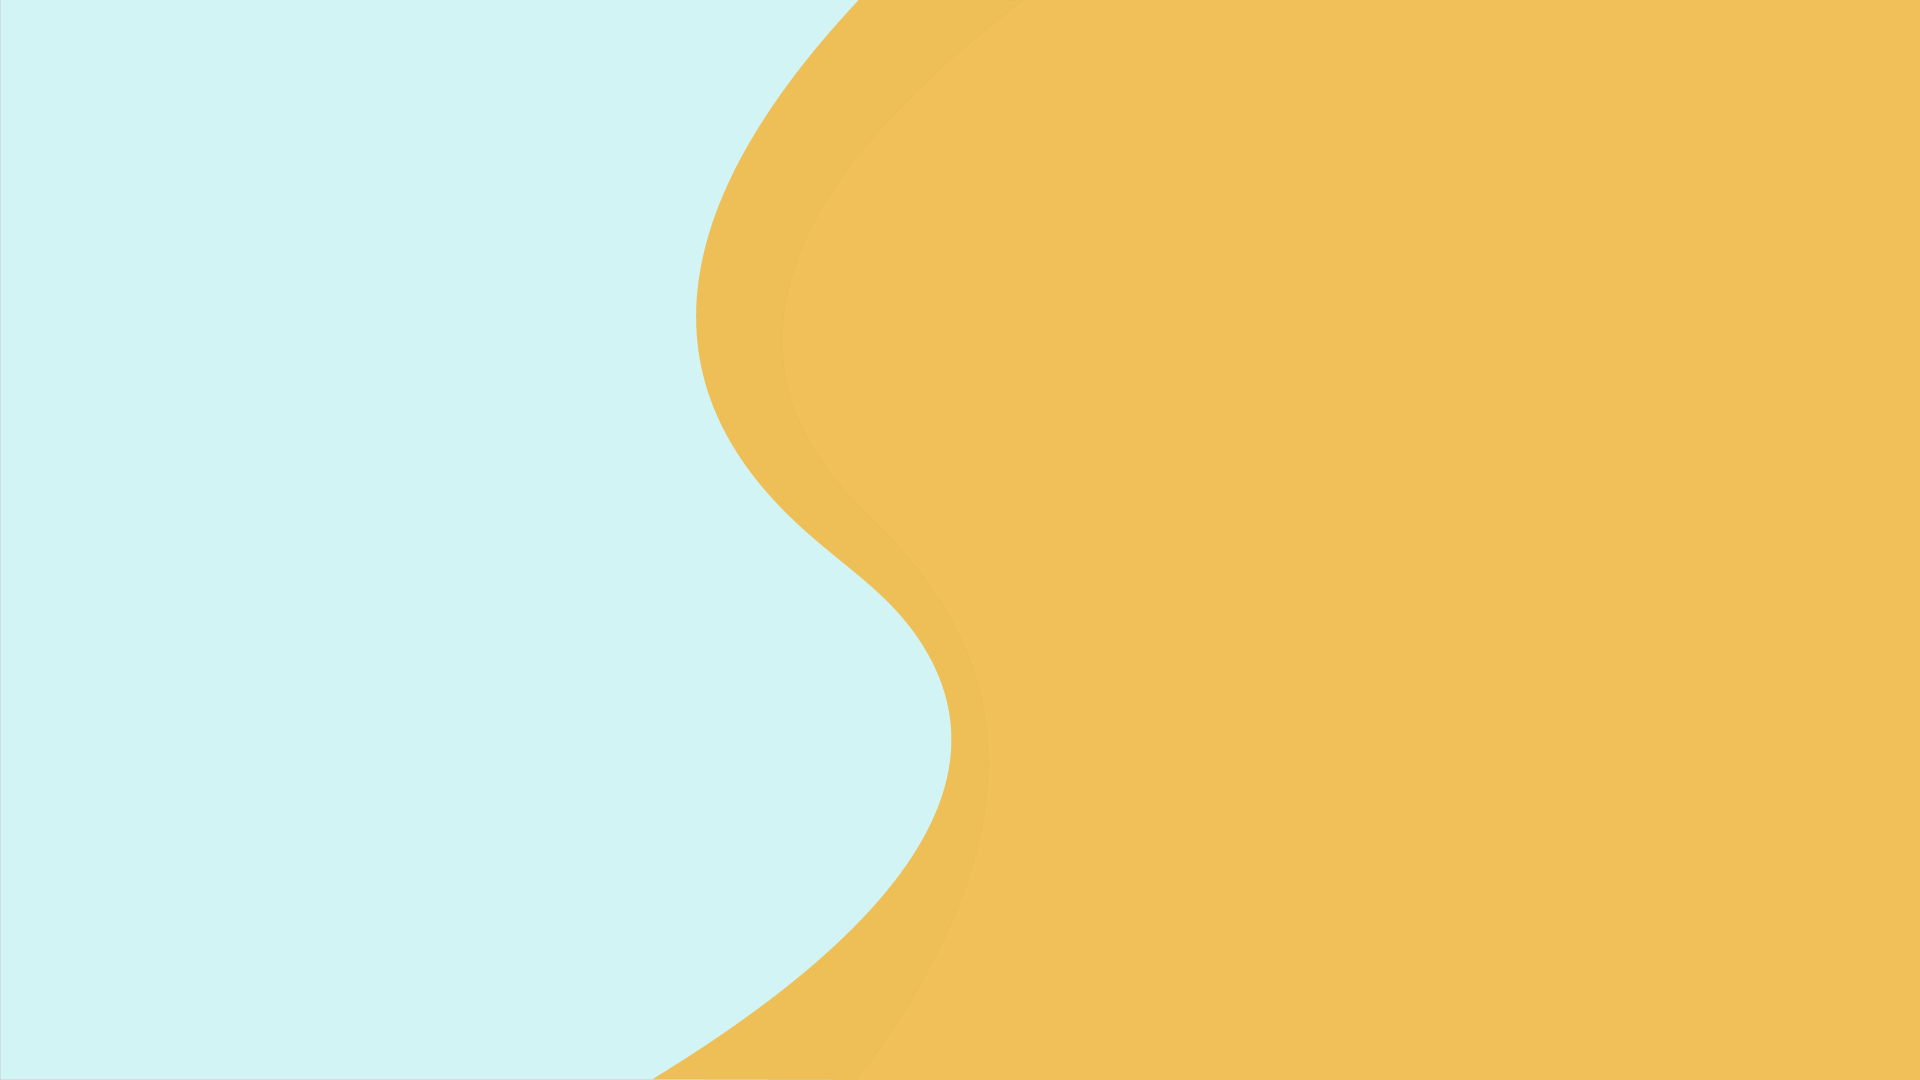
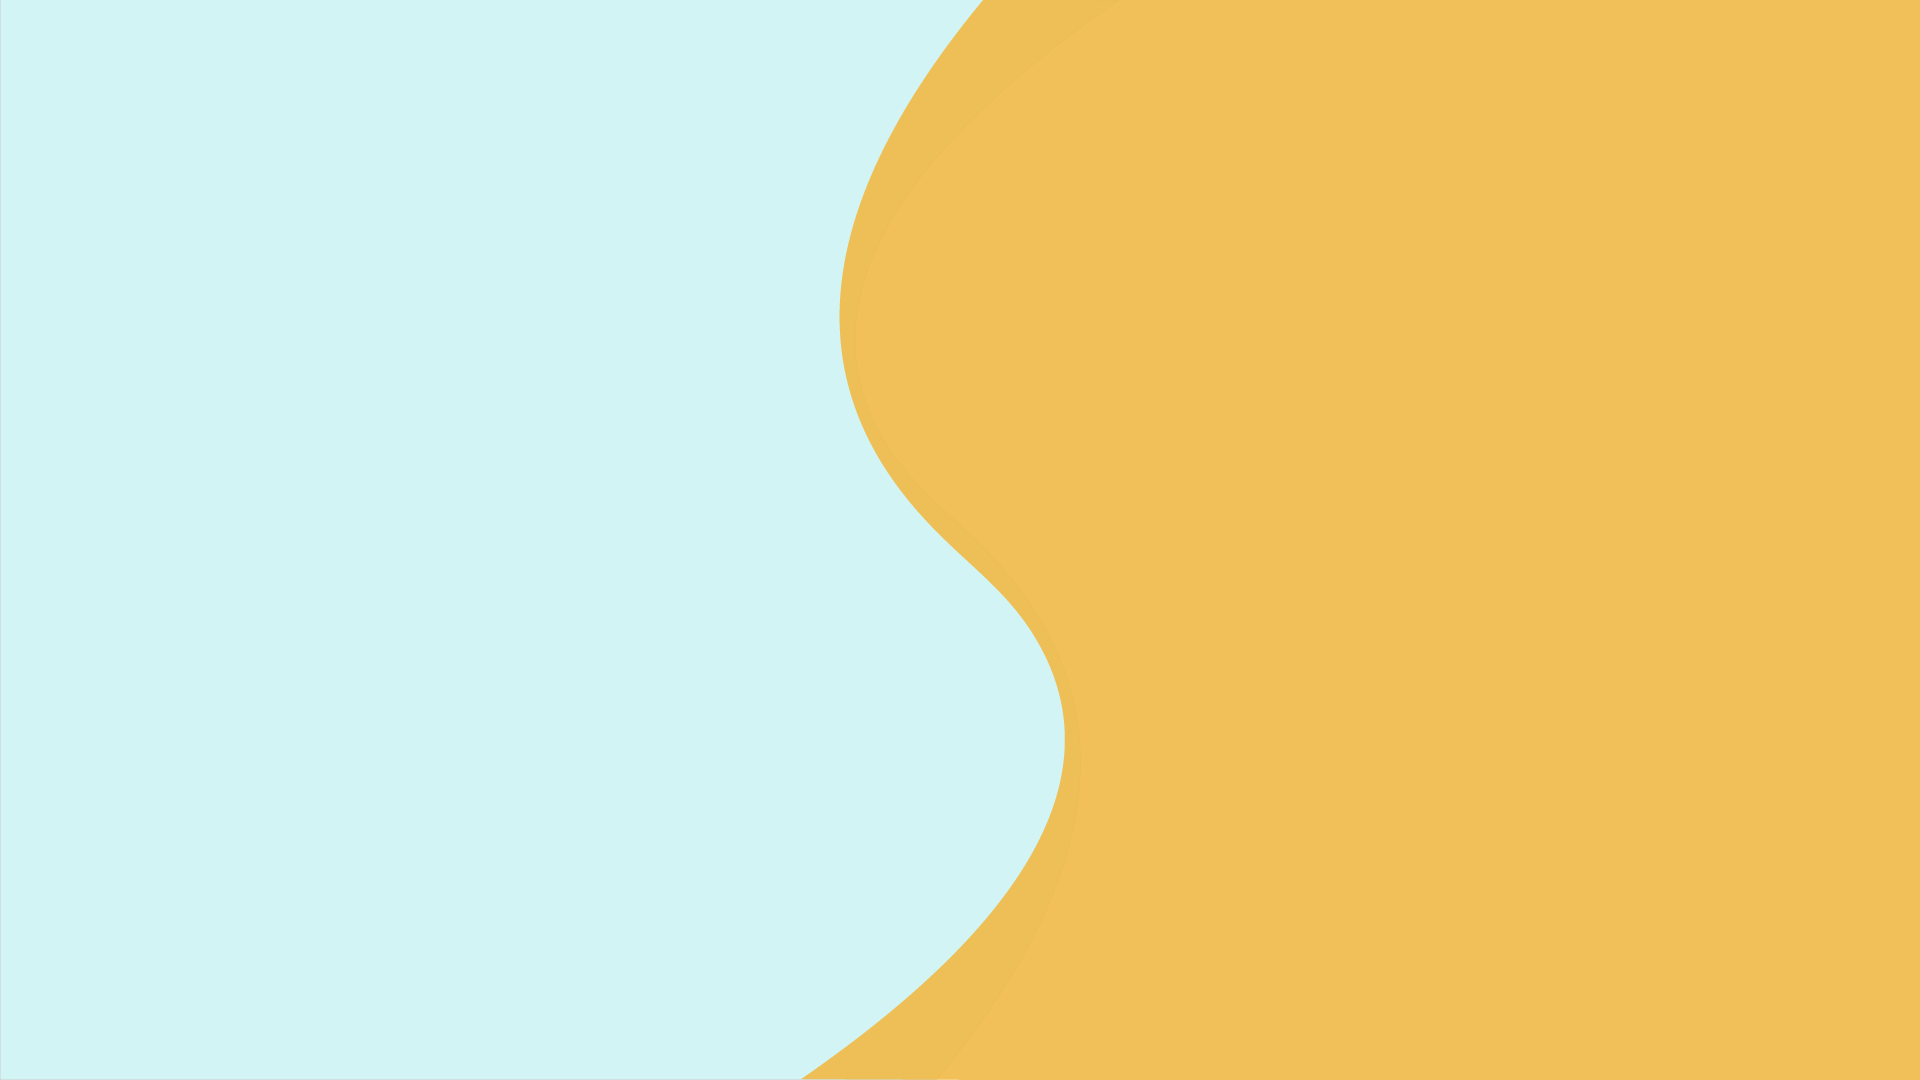
ajouter page de connexion et button style et link

Changed region(s): [[0.3438, 0.0, 0.5625, 1.0]]

diff --git a/view/connexion.html b/view/connexion.html
@@ -3,7 +3,7 @@
 <head>
     <meta charset="UTF-8">
     <meta name="viewport" content="width=device-width, initial-scale=1.0">
-    <title>Document</title>
+    <title>test</title>
     <link href="https://cdn.jsdelivr.net/npm/bootstrap@5.3.2/dist/css/bootstrap.min.css" rel="stylesheet" integrity="sha384-T3c6CoIi6uLrA9TneNEoa7RxnatzjcDSCmG1MXxSR1GAsXEV/Dwwykc2MPK8M2HN" crossorigin="anonymous">
     <link rel="stylesheet" href="https://cdnjs.cloudflare.com/ajax/libs/font-awesome/6.4.2/css/all.min.css" integrity="sha512-z3gLpd7yknf1YoNbCzqRKc4qyor8gaKU1qmn+CShxbuBusANI9QpRohGBreCFkKxLhei6S9CQXFEbbKuqLg0DA==" crossorigin="anonymous" referrerpolicy="no-referrer" />
     <link rel="stylesheet" href="https://cdn.jsdelivr.net/npm/bootstrap-icons@1.11.1/font/bootstrap-icons.css">
@@ -11,10 +11,39 @@
 </head>
 <body>
     <header>
-
+        
     </header>
-    <main>
-
+    <main class="container-fluid d-flex d-flex-column connexion">
+        <div class="container ">
+                <div class="row gx-5 d-flex align-items-center align-content-center ">
+                    <div class="col-md-6 col-1-connexion float-center">
+                        <img class="mx-auto img-fluid image-personne" src="../public/img/Img_page_de_connexion/personne.png" alt="">
+                        <p>Votre confidentialité et votre sécurité sont nos principales priorités !<br />
+                        Consultez notre <a class="link" href=""> politique et nos informations de confidentialité </a><br/>
+                        Besoin d’aide ? <a class="link" href=""> contactez-nous</a><br />
+                    </div>
+                    <div class="col-md-6 col-2-connexion">
+                        <div class="form-connexion p-5 ">
+                            <form>
+                                <h3 class="fw-bolder">Bienvenue !</h3>
+                                <p>Connectez-vous ou <a class="link" href=""> créez un compte</a></p>
+                                <div class="form-group mt-3">
+                                  <label for="adresseMail">Adresse mail</label>
+                                  <input type="text" class="form-control" id="adresseMail" placeholder="mattsmith@mail.com">
+                                </div>
+                                <div class="form-group mt-3">
+                                  <label for="motPass">Mot de passe</label>
+                                  <input type="password" class="form-control" id="motPass" placeholder="Votre mot de pass">
+                                </div>
+                                <div class="mt-4">
+                                    <button type="submit " class="btn button-primary">Connecter</button>
+                                </div>
+                            </form>
+                            <p class="pt-3"><a class="link" href="">Mot de passe oublié</a></p>
+                        </div>
+                    </div>
+                </div>
+        </div>
     </main>
     <footer>
 

diff --git a/public/sass/main.css b/public/sass/main.css
@@ -1,6 +1,49 @@
 @import url("https://fonts.googleapis.com/css2?family=Montserrat:ital,wght@0,200;0,300;0,400;0,500;0,600;1,200;1,300;1,400;1,500;1,600&family=Pacifico&display=swap");
 @import url("https://fonts.googleapis.com/css2?family=Pacifico&family=Voces&display=swap");
 @import url("https://fonts.googleapis.com/css2?family=Nunito+Sans:ital,opsz,wght@0,6..12,200;0,6..12,300;0,6..12,400;0,6..12,500;0,6..12,600;1,6..12,200;1,6..12,300;1,6..12,400;1,6..12,500;1,6..12,600&family=Pacifico&display=swap");
+.link {
+  color: #1D838A;
+  font-weight: 600;
+}
+
+.button-primary {
+  width: 100%;
+  color: #ffffff;
+  background-color: #1D838A;
+  justify-content: center;
+  padding: 10px;
+  border-radius: 5px;
+  border: solid 2px #1D838A;
+  align-items: center;
+}
+
+.button-primary:hover {
+  width: 100%;
+  background-color: #fff;
+  color: #1D838A;
+  font-weight: 600;
+  border: solid 2px #1D838A;
+}
+
+.button-secondary {
+  width: 100%;
+  color: #ffffff;
+  background-color: #E65A14;
+  justify-content: center;
+  padding: 10px;
+  border-radius: 5px;
+  border: solid 2px #E65A14;
+  align-items: center;
+}
+
+.button-secondary:hover {
+  width: 100%;
+  background-color: #fff;
+  color: #E65A14;
+  font-weight: 600;
+  border: solid 2px #E65A14;
+}
+
 .na {
   height: 8vh;
   background-color: #ffffff;
@@ -69,6 +112,64 @@ p {
   font-size: 1rem;
 }
 
+.connexion {
+  padding-top: 100px;
+  padding-bottom: 50px;
+  background-image: url("../img/Img_page_de_connexion/background_img.png");
+  background-size: initial;
+}
+
+.form-connexion {
+  border: dashed 2px rgb(138, 138, 138);
+  background-color: rgb(255, 255, 255);
+  border-radius: 15px;
+  box-shadow: 2px 3px 3px 0px rgba(248, 248, 248, 0.877), 0px 3px 6px 0px rgba(255, 255, 255, 0.724);
+}
+
+.form {
+  width: 100%;
+}
+
+.col-1-connexion {
+  flex: 1;
+  order: 1;
+}
+
+.col-2-connexion {
+  flex: 1;
+  order: 2;
+}
+
+@media screen and (max-width: 1025px) {
+  .connexion {
+    background-image: url("../img/Img_page_de_connexion/background_img.png");
+    background-size: initial;
+  }
+}
+@media screen and (min-width: 1025px) {
+  .col-1-connexion {
+    padding-right: 12%;
+    padding-top: 5%;
+    padding-bottom: 5%;
+  }
+  .col-2-connexion {
+    padding-left: 12%;
+    padding-top: 5%;
+    padding-bottom: 5%;
+  }
+}
+@media (max-width: 600px) {
+  .col-1-connexion {
+    order: 2;
+    margin-top: 50px;
+  }
+  .col-2-connexion {
+    order: 1;
+  }
+  .form-connexion {
+    padding: 10px;
+  }
+}
 #figure-lola {
   width: 200px;
   height: 200px;

diff --git a/public/sass/pages/_connexion.scss b/public/sass/pages/_connexion.scss
@@ -1,0 +1,59 @@
+.connexion{
+    padding-top: 100px;
+    padding-bottom: 50px;
+    background-image: url("../img/Img_page_de_connexion/background_img.png");
+    background-size: initial;
+    }      
+
+.form-connexion{
+    border: dashed 2px rgb(138, 138, 138);
+    background-color: rgb(255, 255, 255);
+    border-radius: 15px;
+    box-shadow: 2px 3px 3px 0px rgba(248, 248, 248, 0.877), 0px 3px 6px 0px rgba(255, 255, 255, 0.724);
+    }
+
+.form {
+    width: 100%;
+  }
+
+.col-1-connexion{
+    flex: 1;
+    order: 1;
+}
+.col-2-connexion{
+    flex: 1;
+    order: 2;
+}
+@media screen and (max-width: 1025px) {
+    .connexion{
+        background-image: url("../img/Img_page_de_connexion/background_img.png");
+        background-size: initial;
+    }
+}
+  @media screen and (min-width: 1025px) {
+    .col-1-connexion{
+        padding-right: 12%;
+        padding-top: 5%;
+        padding-bottom: 5%;
+    }
+    .col-2-connexion{
+        padding-left: 12%;
+        padding-top: 5%;
+        padding-bottom: 5%;
+    }
+  }
+
+  @media (max-width: 600px) {
+    .col-1-connexion {
+        order: 2;
+        margin-top: 50px;
+    }
+    .col-2-connexion {
+        order: 1;
+    }
+    .form-connexion{
+        padding: 10px;
+    }
+}
+  
+

diff --git a/public/sass/components/_buttons.scss b/public/sass/components/_buttons.scss
@@ -1,0 +1,42 @@
+.link{
+    color: $primary-color;
+    font-weight: 600;
+ }
+
+.button-primary {
+    width: 100%;
+    color: #ffffff;
+    background-color: $primary-color;
+    justify-content: center;
+    padding: 10px; 
+    border-radius: 5px;
+    border: solid 2px $primary-color;
+    align-items: center;
+  }
+  
+  .button-primary:hover {
+    width: 100%;
+    background-color: #fff;
+    color: $primary-color;
+    font-weight: 600;
+    border: solid 2px $primary-color;
+  }
+
+  .button-secondary {
+    width: 100%;
+    color: #ffffff;
+    background-color: $secondary-color;
+    justify-content: center;
+    padding: 10px; 
+    border-radius: 5px;
+    border: solid 2px $secondary-color;
+    align-items: center;
+  }
+  
+  .button-secondary:hover {
+    width: 100%;
+    background-color: #fff;
+    color: $secondary-color;
+    font-weight: 600;
+    border: solid 2px $secondary-color;
+  }
